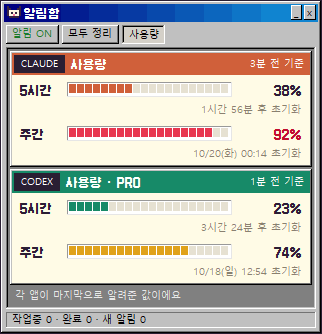
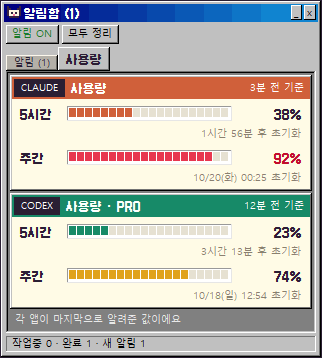
Replace usage toggle button with alerts/usage tabs (v0.2.1)

diff --git a/plugins/pixelpet/app/pet.py b/plugins/pixelpet/app/pet.py
@@ -634,10 +634,19 @@ class App:
                     relief="raised", padx=4 * F, pady=F, highlightthickness=0, takefocus=0)
         self.btn_onoff = tk.Button(bar, command=self.toggle_enabled, **tbtn)
         self.btn_onoff.pack(side="left")
-        tk.Button(bar, text="모두 정리", command=self.clear_all, **tbtn).pack(side="left", padx=(3 * F, 0))
-        self.btn_usage = tk.Button(bar, text="사용량", command=self.toggle_usage, **tbtn)
-        self.btn_usage.pack(side="left", padx=3 * F)
+        tk.Button(bar, text="모두 정리", command=self.clear_all, **tbtn).pack(side="left", padx=3 * F)
         self.btn_expand = tk.Button(bar, command=self.toggle_expand, **tbtn)
+
+        # 탭 (Win95 탭 컨트롤 느낌: 선택된 탭이 더 크고 밝게)
+        strip = tk.Frame(self.content, bg=FACE)
+        strip.pack(fill="x", padx=3 * F)
+        self.tabs = {}
+        for view, text in (("alerts", "알림"), ("usage", "사용량")):
+            t = tk.Label(strip, text=text, font=self.f_small, bg=FACE, fg=INK, bd=2 * F, relief="raised",
+                         padx=6 * F, cursor="hand2")
+            t.pack(side="left", anchor="s")
+            t.bind("<Button-1>", lambda e, v=view: self.set_view(v))
+            self.tabs[view] = t
 
         well = tk.Frame(self.content, bg=FACE, bd=2 * F, relief="sunken")
         well.pack(fill="both", expand=True, padx=3 * F)
@@ -794,8 +803,11 @@ class App:
         n_unread = sum(1 for s in self.sessions.values() if s.unread)
         self.status.configure(text=f" 작업중 {n_work} · 완료 {n_done} · 새 알림 {n_unread}")
         in_usage = self.view == "usage"
-        self.btn_usage.configure(relief="sunken" if in_usage else "raised",
-                                 bg="#d4d0c8" if in_usage else FACE)
+        for view, t in self.tabs.items():
+            on = view == self.view
+            label = ("알림" + (f" ({n_unread})" if n_unread else "")) if view == "alerts" else "사용량"
+            t.configure(text=label, font=self.f_bold if on else self.f_small,
+                        bg=FACE if on else "#b4b0a8", pady=2 * self.F if on else 0)
         if not self.panel_visible or self.settings.get("collapsed"):
             if self.panel_visible:
                 self.place_panel()
@@ -899,8 +911,12 @@ class App:
                      anchor="e").pack(fill="x", padx=6 * F)
 
     def toggle_usage(self):
-        self.view = "alerts" if self.view == "usage" else "usage"
-        self.render()
+        self.set_view("alerts" if self.view == "usage" else "usage")
+
+    def set_view(self, view):
+        if self.view != view:
+            self.view = view
+            self.render()
 
     def place_panel(self):
         self._place_now()

diff --git a/plugins/pixelpet/app/runtime.py b/plugins/pixelpet/app/runtime.py
@@ -7,7 +7,7 @@ import hashlib
 import os
 import shutil
 
-VERSION = "0.2.0"
+VERSION = "0.2.1"
 PORT = int(os.environ.get("PIXELPET_PORT", "47321"))
 DEBUG = os.environ.get("PIXELPET_DEBUG") == "1"
 AUTH_HEADER = "X-PixelPet"   # 브라우저 등 다른 출처의 위조 요청 차단용 (커스텀 헤더는 CORS 사전요청이 필요)

diff --git a/README.en.md b/README.en.md
@@ -56,7 +56,7 @@ Codex only runs hooks you have approved. Until then, no Codex notifications arri
 
 <p align="center"><img src="docs/images/usage.png" alt="usage tab" width="300"></p>
 
-Press `사용량` (Usage) in the panel to see your plan limits. **Codex needs no setup**: PixelPet reads the logs Codex keeps on your machine.
+Open the `사용량` (Usage) tab in the panel to see your plan limits. **Codex needs no setup**: PixelPet reads the logs Codex keeps on your machine.
 For Claude, run this once in Claude Code:
 
 ```
@@ -79,7 +79,7 @@ To undo it, run `/pixelpet:usage --remove`.
 | `펼치기 ▼` / `접기 ▲` | Expand to scroll through more than 5 cards / collapse |
 | `_` button / double-click title bar | Collapse ↔ expand the panel |
 | `모두 정리` (clear all) | Clear every card that isn't in progress |
-| `사용량` (usage) | Switch between the card list and Claude/Codex plan usage |
+| `알림` / `사용량` tabs (alerts / usage) | Switch between the card list and Claude/Codex plan usage |
 
 ### Card types
 
